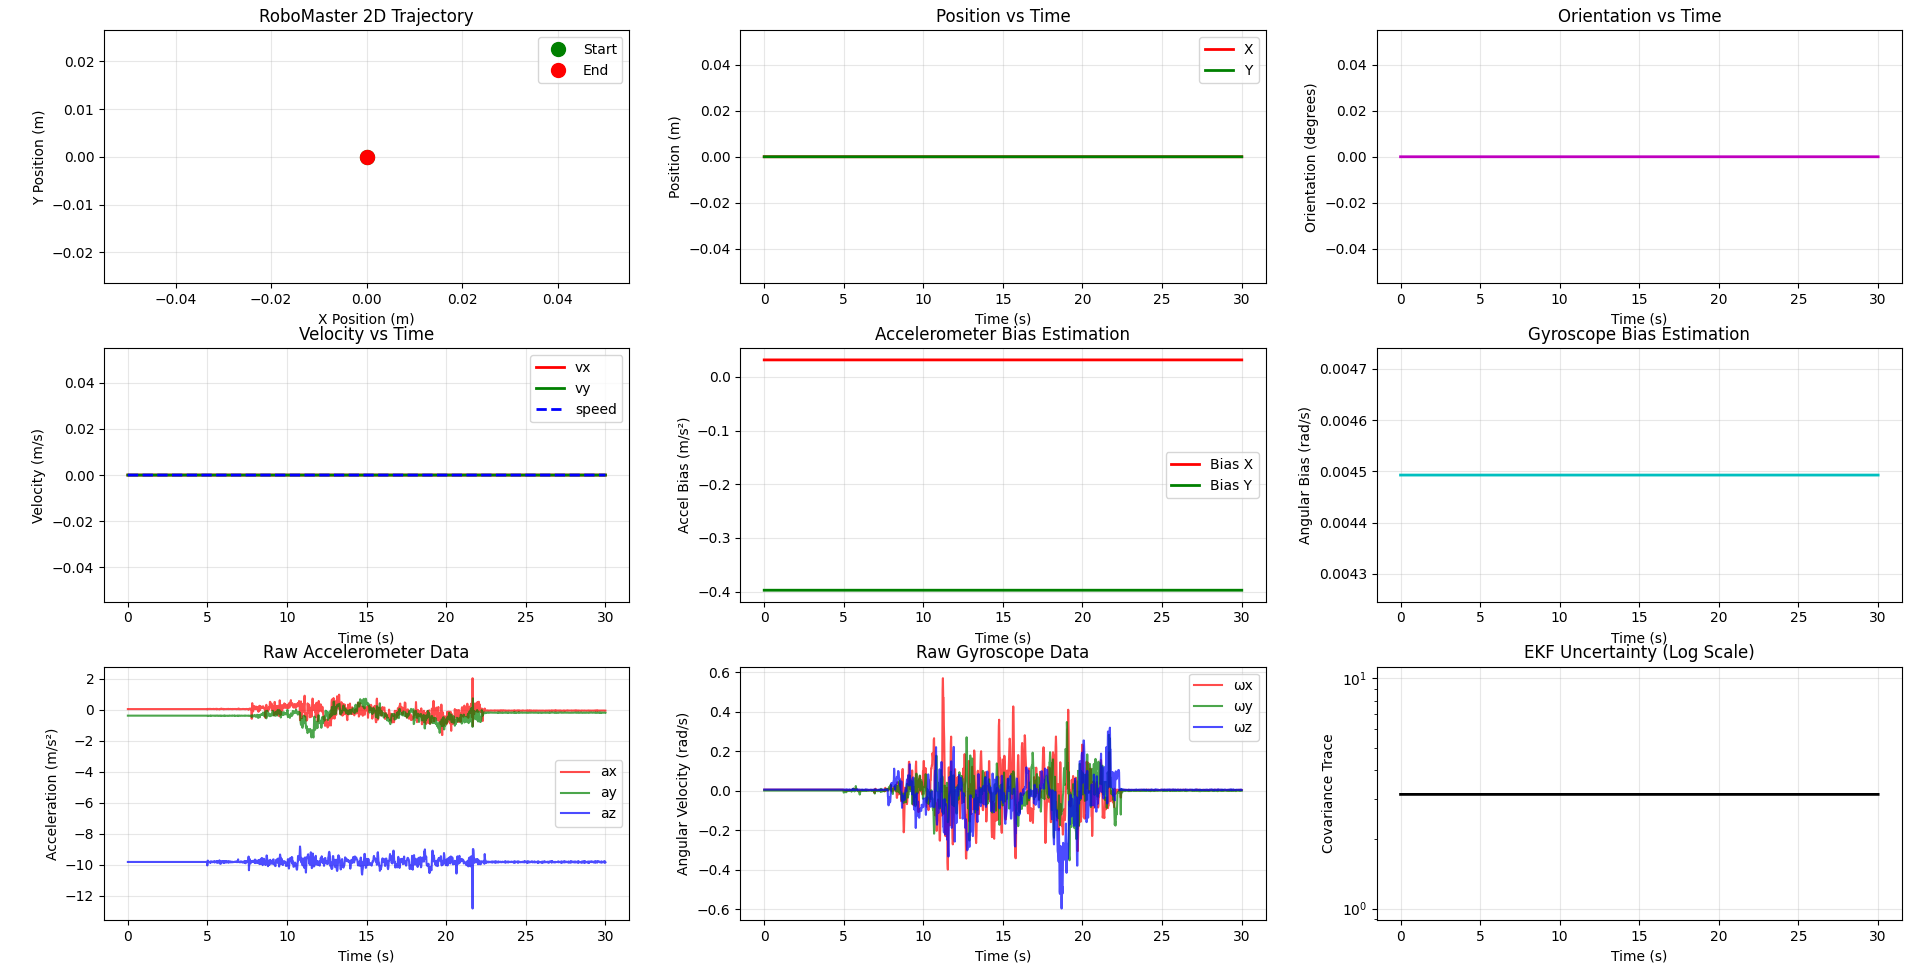
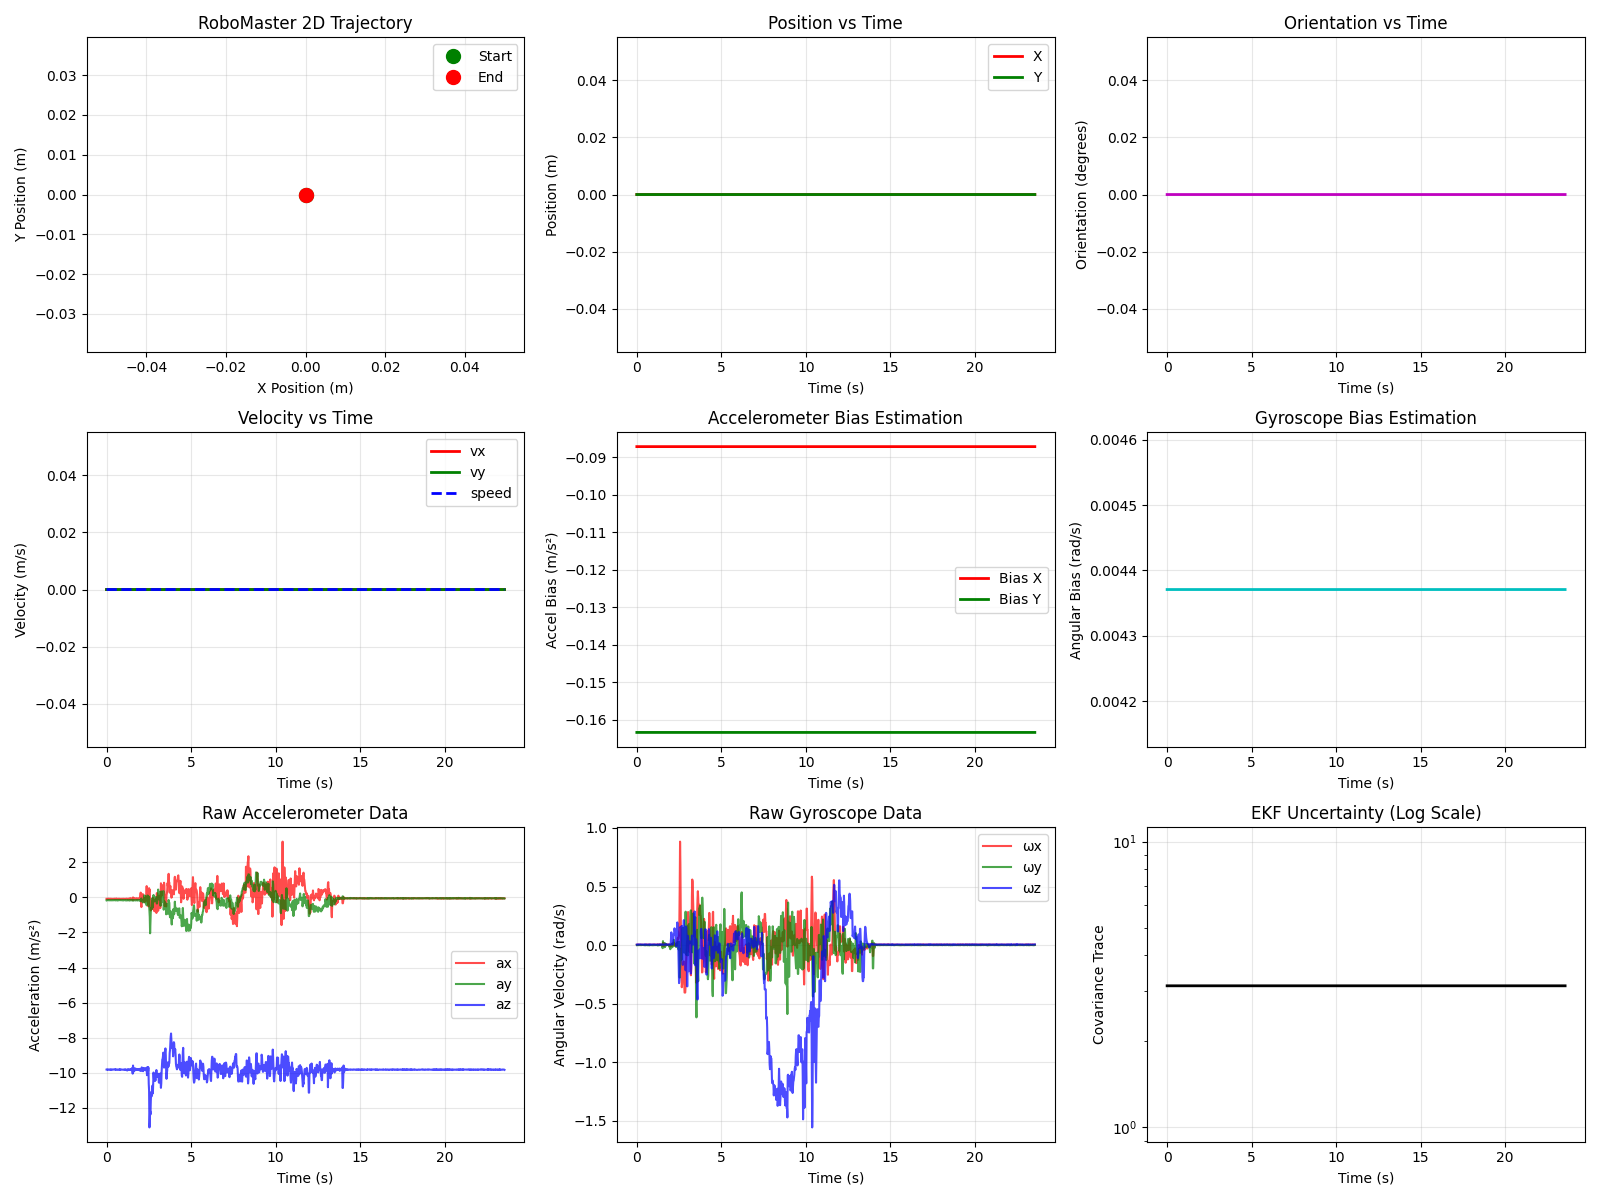
28.08 -v14

diff --git a/iphone_integration/pi_phone_connection/main_integration_robomaster.py b/iphone_integration/pi_phone_connection/main_integration_robomaster.py
@@ -319,28 +319,30 @@ class RoboMasterEKFIntegration:
         if not self.is_running:
             return
 
+        # Phase 1: Pre-delay (collect data but don't start EKF)
         if self.system_start_time is None:
             self.system_start_time = time.time()
             logger.info(f"First sensor data received. Starting pre-delay of {self.pre_start_delay_seconds}s.")
-            # Do not process data during pre-start delay
+            # During pre-delay, just collect data for calibration
+            self.calibration_data.append(data)
             return
 
         elapsed_since_system_start = time.time() - self.system_start_time
 
         if elapsed_since_system_start < self.pre_start_delay_seconds:
-            # Still in pre-start delay, just log and discard data
-            # logger.debug(f"In pre-start delay ({elapsed_since_system_start:.1f}/{self.pre_start_delay_seconds:.1f}s). Discarding data.")
+            # Still in pre-delay, collect calibration data
+            self.calibration_data.append(data)
+            logger.debug(f"In pre-delay ({elapsed_since_system_start:.1f}/{self.pre_start_delay_seconds:.1f}s). Collecting calibration data.")
             return
 
+        # Phase 2: Calibration (collect data and estimate biases)
         if not self.is_calibrated:
             if self.calibration_start_time is None:
                 # Pre-delay has just finished, start calibration now
                 self.calibration_start_time = time.time()
                 logger.info(f"Pre-delay finished. Starting {self._calibration_duration}s calibration.")
-                logger.info(f"Debug: system_start_time={self.system_start_time}, pre_delay={self.pre_start_delay_seconds}, calib_start={self.calibration_start_time}")
             
             elapsed_since_calibration_start = time.time() - self.calibration_start_time
-            logger.debug(f"Debug: current_time={time.time()}, calib_start={self.calibration_start_time}, elapsed={elapsed_since_calibration_start:.1f}")
             if elapsed_since_calibration_start < self._calibration_duration:
                 self.calibration_data.append(data)
                 logger.debug(f"Collecting calibration data ({len(self.calibration_data)} samples, {elapsed_since_calibration_start:.1f}/{self._calibration_duration:.1f}s)")
@@ -358,7 +360,7 @@ class RoboMasterEKFIntegration:
                     self.stop() # Stop the system if calibration fails
                 return # Calibration just finished, don't process this packet as EKF data yet
 
-        # If calibrated and past pre-delay, proceed with normal EKF processing
+        # Phase 3: EKF Running (normal processing)
         try:
             # Validate sensor data quality before processing
             if not self._validate_sensor_data(data):
@@ -469,17 +471,17 @@ class RoboMasterEKFIntegration:
                         logger.warning(f"Invalid GPS coordinates: {lat}, {lon}")
                         return False
                     
-                    # Check for reasonable speed values
+                    # Check for reasonable speed values (allow negative values as invalid GPS indicators)
                     if 'speed' in gps:
                         speed = gps['speed']
-                        if not np.isfinite(speed) or speed < 0 or speed > 100:  # 0-100 m/s reasonable
+                        if not np.isfinite(speed) or speed > 100:  # Allow negative values, only reject > 100 m/s
                             logger.warning(f"Invalid GPS speed: {speed}")
                             return False
                     
-                    # Check for reasonable course values
+                    # Check for reasonable course values (allow invalid values as indicators)
                     if 'course' in gps:
                         course = gps['course']
-                        if not np.isfinite(course) or not (0 <= course <= 360):
+                        if not np.isfinite(course):  # Only reject non-finite values
                             logger.warning(f"Invalid GPS course: {course}")
                             return False
             
@@ -505,31 +507,41 @@ class RoboMasterEKFIntegration:
                     last_time = current_time
                     continue
 
-                control_input = self._prepare_control_input(raw_data, processed_data)
-                if control_input is None:
-                    # If no control input (e.g., stream pause), keep EKF alive by skipping update
-                    # but do not kill the loop; just continue to wait for next packet.
-                    last_time = current_time
-                    continue
-                
+                # Simple prediction step (like enhanced version)
                 try:
-                    self.ekf.predict(dt, control_input)
+                    self.ekf.predict(dt)
                 except Exception as e:
                     logger.error(f"Prediction failed: {e}")
                     continue
                 
-                # Constraint helpers (do not change EKF internals)
+                # Update with IMU (like enhanced version)
                 try:
-                    self.ekf.update_non_holonomic_constraint()
-                    self.ekf.update_zero_velocity()
-                    self.ekf.update_zero_angular_rate()
+                    if 'accel' in processed_data and 'gyro' in processed_data:
+                        accel = np.array(processed_data['accel'])
+                        gyro = np.array(processed_data['gyro'])
+                        self.ekf.update_imu(accel, gyro)
                 except Exception as e:
-                    logger.error(f"Constraint updates failed: {e}")
+                    logger.error(f"IMU update failed: {e}")
                 
+                # Update with magnetometer (like enhanced version)
+                try:
+                    if 'mag' in processed_data:
+                        mag = np.array(processed_data['mag'])
+                        self.ekf.update_magnetometer_yaw(mag)
+                except Exception as e:
+                    logger.error(f"Magnetometer update failed: {e}")
+                
+                # Update with GPS if available
                 try:
                     self._update_with_gps(raw_data, processed_data)
                 except Exception as e:
                     logger.error(f"GPS update failed: {e}")
+                
+                # Apply constraint updates for robust yaw estimation
+                try:
+                    self.ekf.apply_constraint_updates()
+                except Exception as e:
+                    logger.error(f"Constraint updates failed: {e}")
                 
                 current_state = self.ekf.get_state()
                 if self.autonomous_controller and AUTONOMOUS_AVAILABLE:
@@ -549,7 +561,6 @@ class RoboMasterEKFIntegration:
                     self._print_status(current_state)
             except queue.Empty:
                 # No data available right now (e.g., Siri paused recording). Keep running.
-                # Optionally, we could emit a heartbeat or apply constraint updates without new data.
                 continue
             except Exception as e:
                 logger.error(f"EKF processing error: {e}")
